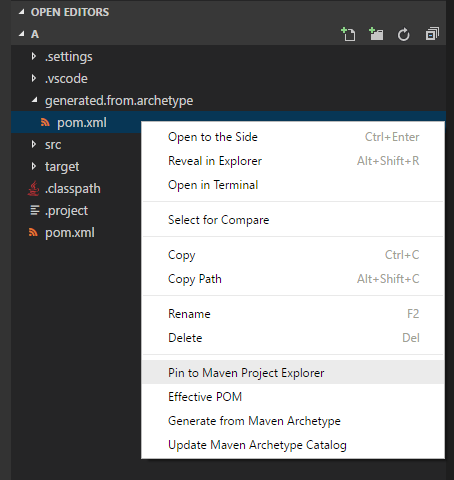
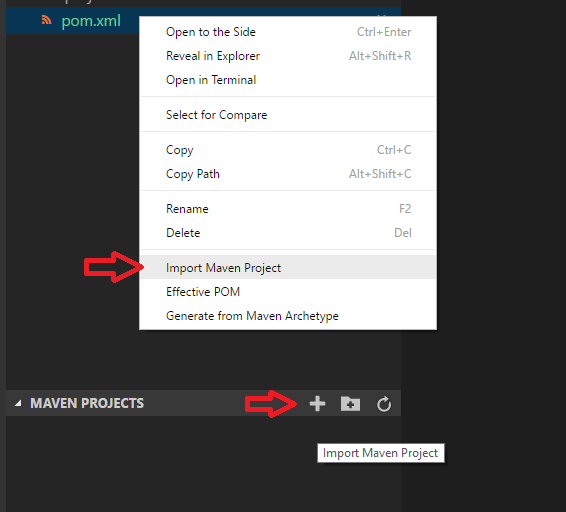
update README

diff --git a/src/extension.ts b/src/extension.ts
@@ -30,8 +30,8 @@ export function activate(context: vscode.ExtensionContext): void {
         mavenProjectsTreeDataProvider.customGoal(item);
     }));
 
-    context.subscriptions.push(vscode.commands.registerCommand("maven.project.pinProject", (entry: Uri | undefined) => {
-        mavenProjectsTreeDataProvider.pinProject(entry);
+    context.subscriptions.push(vscode.commands.registerCommand("maven.project.import", (entry: Uri | undefined) => {
+        mavenProjectsTreeDataProvider.importProject(entry);
     }));
 
     context.subscriptions.push(vscode.commands.registerCommand("maven.project.openPom", (item: ProjectItem | undefined) => {
@@ -45,7 +45,7 @@ export function activate(context: vscode.ExtensionContext): void {
     }));
 
     context.subscriptions.push(vscode.commands.registerCommand("maven.project.importAll", () => {
-        mavenProjectsTreeDataProvider.searchAndPinProjects();
+        mavenProjectsTreeDataProvider.searchAndImportProjects();
     }));
 
     context.subscriptions.push(vscode.window.onDidCloseTerminal((closedTerminal: vscode.Terminal) => {

diff --git a/src/ProjectDataProvider.ts b/src/ProjectDataProvider.ts
@@ -188,7 +188,7 @@ export class ProjectDataProvider implements TreeDataProvider<TreeItem> {
         }
     }
 
-    public async pinProject(entry: Uri | undefined): Promise<void> {
+    public async importProject(entry: Uri | undefined): Promise<void> {
         let currentPomXml: string = null;
         if (!entry) {
             entry = await VSCodeUI.openDialogForFile({ filters: { "POM File": ["xml"] }, openLabel: "Import" });
@@ -209,7 +209,7 @@ export class ProjectDataProvider implements TreeDataProvider<TreeItem> {
         }
     }
 
-    public async searchAndPinProjects(): Promise<void> {
+    public async searchAndImportProjects(): Promise<void> {
         const res: Uri = await VSCodeUI.openDialogForFolder({openLabel: "Import All"});
         if (res && res.fsPath) {
             const foundPomXmls: string[] = await Utils.findAllInDir(res.fsPath, "pom.xml", 99);

diff --git a/README.md b/README.md
@@ -23,15 +23,20 @@ Maven installed and PATH added, i.e., `mvn` command can be executed directly in 
 
     ![Screenshot](images/view_context.png)
 
-* If you want to add project whose `pom.xml` is elsewhere not in the workspace, you can `right-click` on the `pom.xml`, select `Pin to Maven Project Explorer`. The extension will force to show the corresponding project in sidebar.
+* If you want to add a project whose `pom.xml` is elsewhere not in the workspace, you have multiple ways to import it.
+    * `right-click` on the `pom.xml`, select `Import Maven Project`. The extension will force to show the corresponding project in sidebar.
+    * Or simply click the `+` button, and select a `pom.xml` in a system dialog.
+    * Or you just want to search `pom.xml` files recursively and import all of them. Then click the folder-shaped button beside.
 
     ![Screenshot](images/explorer_context.png)
 
-    In fact, the extension simply adds the pom.xml absolute path in your `Workspace Settings`, and then refreshes the whole view.
+
+
+    In fact, the extension imports a Maven project by adding its absolute path in your `Workspace Settings`, and then refreshes the whole view.
     ```
     {
         "maven.projects.pinnedPomPaths": [
-            "c:\\path-to-project\\a\\generated.from.archetype\\pom.xml"
+            "c:\\path-to-project\\pom.xml"
         ]
     }
     ```

diff --git a/CHANGELOG.md b/CHANGELOG.md
@@ -18,6 +18,7 @@ All notable changes to the "vscode-maven" extension will be documented in this f
         - [0.0.1](#001)
 
 ## Unreleased
+- Support to import all projects under specified folder.
 
 ## Released
 ### 0.2.1
